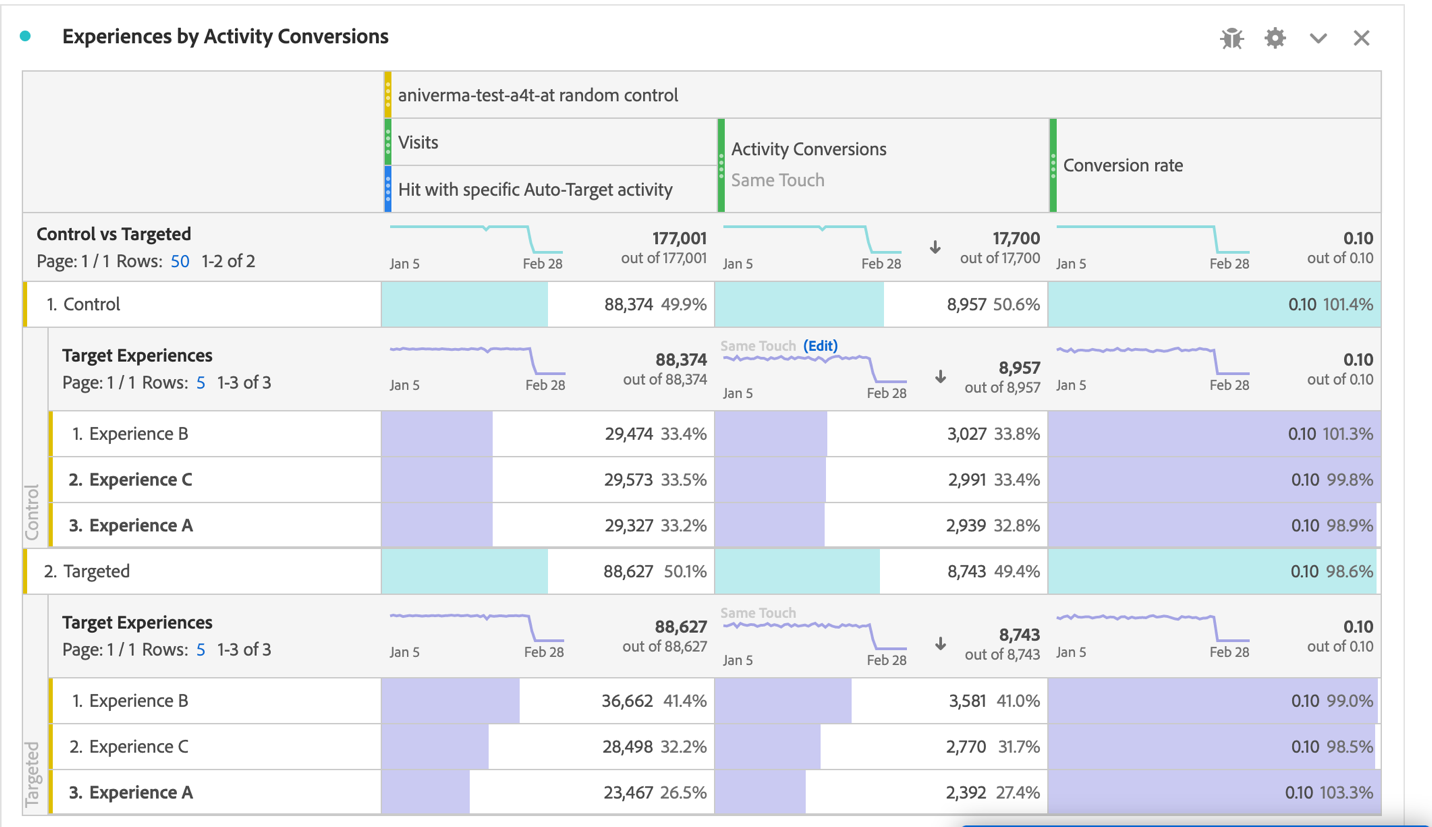
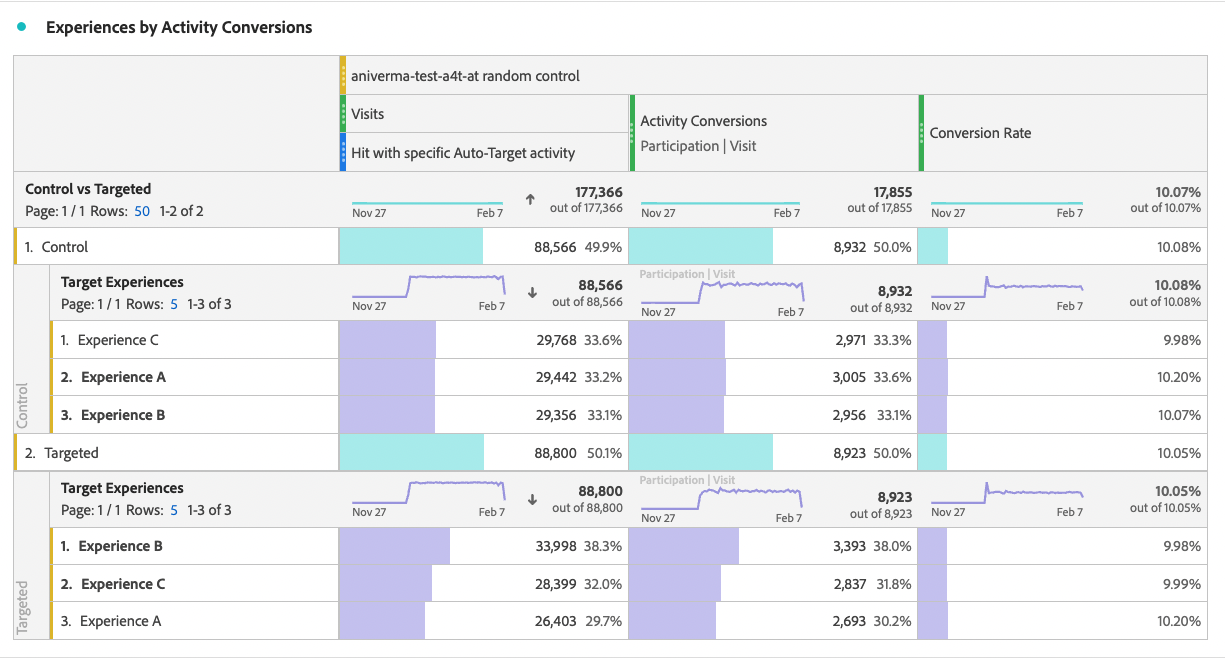
taper-1365

Changed region(s): [[0.0, 0.0303, 1.0, 1.0], [0.8376, 0.0303, 0.8996, 0.0607], [0.9306, 0.0303, 0.9616, 0.0607]]

diff --git a/help/integrations/set-up-a4t-reports-in-analysis-workspace-for-auto-allocate-activities.md b/help/integrations/set-up-a4t-reports-in-analysis-workspace-for-auto-allocate-activities.md
@@ -1,0 +1,85 @@
+---
+title: How to Set Up A4T Reports in Analysis Workspace for Auto-Allocate Activities
+description: Once you have your Analytics for Target (A4T) integration in place and you are running Auto-Allocate activities, how can you ensure you are interpreting results correctly? Follow these steps to configure A4T reports in Analysis Workspace to get expected results when running Auto-Allocate activities.
+role: User
+level: Intermediate
+topic: Personalization, Integrations
+feature: Analytics for Target (A4T), Auto-Target, Integrations
+doc-type: tutorial
+kt:
+exl-id: <WHAT GOES HERE?>
+---
+# Setting up A4T reports in Analysis Workspace for [!DNL Auto-Allocate] activities
+
+An [!DNL Auto-Allocate] activity identifies a winner among two or more experiences and automatically reallocates more traffic to the winner while the test continues to run and learn. The Analytics for Target (A4T) integration for [!DNL Auto-Allocate] allows you to see your reporting data in Adobe Analytics, and you can even optimize for custom events or metrics defined in Adobe Analytics. 
+
+While rich analysis capabilities are available in Adobe Analytics Analysis Workspace, a few modifications to the default **[!UICONTROL Analytics for Target]** panel are required to correctly interpret [!DNL Auto-Allocate] activities, due to the nuances in [optimization criteria](https://experienceleague.adobe.com/docs/target/using/integrate/a4t/a4t-at-aa.html?lang=en#supported). 
+
+This tutorial walks through the recommended modifications for analyzing [!DNL Auto-Allocate] activities in Workspace. The key concepts are: 
+
+* Visitors should always be used as the normalizing metric in [!DNL Auto-Allocate] activities.
+* When the metric is an Adobe Analytics Metric, the appropriate numerator for the conversion rate depends on the type of optimization criteria chosen during activity setup.
+  * The "maximize unique visitor conversion rate" optimization criterion has a conversion rate whose numerator is a count of the unique visitors with a positive value of the metric. 
+  * The "maximize metric value per visitor* has a conversion rate whose numerator is the regular metric value in Adobe Analytics. This is provided by default in the **[!UICONTROL Analytics for Target]** panel in Workspace.
+* When your optimization metric is a Target defined conversion metric, the default **[!UICONTROL Analytics for Target]** panel in Workspace handles configuring your panel. 
+* The Confidence numbers seen in Workspace do not reflect the [more conservative statistics used by Auto-Allocate](https://experienceleague.adobe.com/docs/target/using/activities/auto-allocate/automated-traffic-allocation.html?lang=en#section_98388996F0584E15BF3A99C57EEB7629), and so should be removed. 
+
+
+## Create the A4T for [!DNL Auto-Allocate] panel in Workspace
+
+To create an A4T for [!DNL Auto-Allocate] report start with the **[!UICONTROL Analytics for Target]** panel in Workspace, as shown below. Then make the following selections:
+
+1. **[!UICONTROL Control Experience]**: You may choose any experience
+2. **[!UICONTROL Normalizing Metric]**: Select Visitors - Auto-Allocate always normalizes conversion rates by unique visitors.
+3. **[!UICONTROL Success Metrics]**: Select the same metric that you used during activity creation - if this was a Target defined Conversion metric, select **Activity Conversion**. Otherwise, select the Adobe Analytics metric that you used.
+
+![AAFigure1.png](assets/AAFigure1.png)
+*Figure 1: Analytics for Target  panel setup for [!DNL Auto-Allocate] activities.*
+
+>[!NOTE]
+>
+> You may also arrive at a pre-built **[!UICONTROL Analytics for Target]** panel if you click the link from the report screen in Adobe Target.
+
+## Target Conversion Metrics or Analytics metrics with "Maximize Metric Value Per Visitor" optimization criteria
+
+The default A4T panel handles [!DNL Auto-Allocate] activities where the goal metric is either a Target Conversion, or an Analytics metric with optimization criterion "Maximize Metric Value Per Visitor". 
+
+One example of this panel is shown for the Revenue metric, where "Maximize Metric Value Per Visitor" was selected as the optimization criteria at activity creation time. As previously mentioned, !DNL Auto-Allocate] uses more conservative confidence calculations compared to the ones used by the **[!UICONTROL Analytics for Target]** panel. It is therefore recommended that you remove the confidence metric, as well as the related lower and upper lift metrics.  
+
+![Figure2.png](assets/AAFigure2.png)
+*Figure 2: The recommended report for [!DNL Auto-Allocate] activities with an Analytics metric Maximize Metric Value Per Visitor optimization criteria. For these types of metrics, as well as Target defined conversion metrics, the default  **[!UICONTROL Analytics for Target]** panel in workspace can be used.* 
+
+
+## Analytics metrics with "Maximize Unique Visitor Conversion Rate" optimization criteria
+
+When an Adobe Analytics metric is used with an optimization criterion of *Maximize Unique Visitor Conversion Rate*, the default **[!UICONTROL Analytics for Target]** panel in workspace must be modified. 
+
+The success metric is now a count of unique visitors for whom the conversion metric was positive. This can be achieved by creating a segment that filters to hits with a positive value of the metric. Create this segment as follows:
+
+1. Select the **Components** > **Create Segment** option in the Workspace toolbar.
+1. Drag the metric used at activity creation time from the left hand panel to the **Definition** box of the segment.
+1. Select values of the metric that are **greater than** a numeric value of 0. 
+1. From the **Include** dropdown, select **Visitors**
+1. Give your segment an appropriate name
+
+An example of the segment creation is shown in the figure below, where we select vistors for whom the Revenue is positive. 
+
+![Figure3.png](assets/AAFigure3.png)
+*Figure 3: Segment creation for Adobe Analytics metrics with optimization criteria equal to Maximize Unique Visitor Conversion Rate. In this example, the metric is Revenue, and the optimization goal is to maximize the number of visitors with positive revenue.*
+
+Once the appropriate segment has been created, the default  **[!UICONTROL Analytics for Target]** panel in workspace can be modified. 
+
+1. Add a second **Unique Visitors** metric alongside the existing visitors metric column
+2. Drag the just-created segment under the first column, to produce a panel that resembles Figure 4. Notice the difference - the number of unique visitors with positive revenue is a fraction of the total number of unique visitors assigned to each experience.
+![Figure4.png](assets/AAFigure4.png)
+*Figure 4: Filtering Unique Visitors by the newly created segment*
+3. A conversion rate can be [quickly calculated](https://experienceleague.adobe.com/docs/analytics-learn/tutorials/components/calculated-metrics/quick-calculated-metrics-in-analysis-workspace.html?lang=en) by higlighting both the first and second columns, right clicking, selecting **Create Metric from selection** > **Divide**. The default conversion rate should be removed, and replaced with this new calculated metric, as shown in the image below. You may have to edit the newly created calculated metric to display as a **Format** > **Percent** up to two decimal places as shown. 
+![Figure4.png](assets/AAFigure5.png)
+*Figure 4: The final Auto-Allocate panel showing the conversion rates for a binarized revenue conversion metric*
+
+
+
+## Conclusion
+The above steps have demonstrated how to correctly configure workspace to display Auto-Allocate reporting data. To summarize
+- When the metric is a Target defined conversion metric, or an Adobe Analytics Metric with optimization criterion *Maximize Metric Value Per Visitor*, the default workspace panel configured with visitors as a normalizing metric should be used.
+- When the metric is an Adobe Analytics metric with optimization criterion "Maximize Unique Visitor Conversion Rate", you must use a conversion rate that is defined as the fraction of visitors for whom the metric is positive. This is done by creating a corresponding segment, that filters the unique visitor metric. 

diff --git a/help/integrations/set-up-a4t-reports-in-analysis-workspace-for-auto-target-activities.md b/help/integrations/set-up-a4t-reports-in-analysis-workspace-for-auto-target-activities.md
@@ -118,7 +118,7 @@ The final panel will appear as follows.
 ![Figure6.png](assets/Figure6.png)
 *Figure 6: Reporting panel with the "Hit with specific Auto-Target Activity" segment applied to the [!UICONTROL Visits] metric. This ensures only visits where a user actually interacted with the Target activity in question are included in the report.*
 
-## Align the attribution between ML model training and goal metric generation
+## Ensure the goal metric and attribution are aligned with your optimization criterion
 
 The A4T integration allows [!DNL Auto-Target]’s ML model to be *trained* using the same conversion event data that Adobe Analytics uses to *generate performance reports*. However, there are certain assumptions which must be employed in interpreting this data when training the ML models, which differ from the default assumptions made during the reporting phase in Adobe Analytics.
 
@@ -126,10 +126,17 @@ Specifically, Adobe Target’s ML models use a visit-scoped attribution model. T
 
 Thus, the difference between the attribution used by Target’s models (during training) versus the default attribution used in querying data (during report generation) may lead to discrepancies. It may even appear that the ML models are performing poorly, when in fact the issue lies with attribution.
 
+
 >[!TIP]
 >
->If the ML models are optimizing for a metric that is attributed differently from that of the metrics you are viewing in a report, the models may not perform as expected! To avoid this, ensure the goal metrics on your report use the same attribution used by Target's ML models.
+>If the ML models are optimizing for a metric that is attributed differently from that of the metrics you are viewing in a report, the models may not perform as expected! To avoid this, ensure the goal metrics on your report use the same metric definition and attribution used by Target's ML models.
 
+The exact metric definition, and attribution settings depend on the [optimization criterion](https://experienceleague.adobe.com/docs/target/using/integrate/a4t/a4t-at-aa.html?lang=en#supported) you specified during activity creation. 
+
+
+### Target defined conversions, or Analytics metrics with *Maximize Metric Value Per Visit*
+
+When the metric is a Target conversion, or an Analytics metrics with **Maximize Metric Value Per Visit**, the goal metric definition allows for multiple conversion events to occur in the same visit. 
 To view goal metrics that have the same attribution methodology used by Adobe Target's ML models, follow these steps:
 
   1. Hover over the goal metric’s gear icon:
@@ -144,9 +151,34 @@ To view goal metrics that have the same attribution methodology used by Adobe Ta
  
 These steps ensure your report will attribute the goal metric to the display of the experience, if the goal metric event happened *any time* (“participation”) in the same visit that an experience was shown. 
 
+### Analytics Metrics with *Unique Visit Conversion Rates*
+
+**Define the visit with positive metric segment**
+
+In the scenario where you selected *Maximize the Unique Visit Conversion Rate* as the optimization criteroin, then the correct definition of the conversion rate is the fraction of visits in which the metric value is positive. This can be achieved by creating a segment filtering down to visits with a positive value of the metric, and then filtering the visits metric.
+
+
+1. As before, select the **[!UICONTROL Components > Create Segment]** option in the Workspace toolbar.
+2. Enter a **[!UICONTROL Title]** for your segment. In the example shown below, the segment is named [!DNL "Visits with an order"].
+3. Drag the base metric you used in your optimization goal into the segment . In the example shown below, we use the **orders** metric, so that the conversion rate measures the fraction of visits where an order is recorded. 
+4. At the top left of the segment definition container, select **[!UICONTROL Include]** **Visit**. 
+5. Use the **[!UICONTROL is greater than]** operator, and set the value to be 0 (i.e., this segment includes visits where the orders metric is positive)
+6. Click **[!UICONTROL Save]**.
+
+![Figure7.png](assets/Figure7.png)
+*Figure 7: The segment definition filtering to visits with a positive order. Depending on your activity's optimization metric, you will have to replace orders with an appropriate metric*
+
+**Apply this to the visits in activity filtered metric**
+
+This segment can now be used to filter to visits with a positive number of orders, and where there was a hit for the [!DNL Auto-Target]activity. The procedure of filtering a metric is similar to before, and after applying the new segment to the already-filtered visit metric, the report panel should look like Figure 8
+
+![Figure8.png](assets/Figure8.png)
+*Figure 8: The report panel with the correct unique-visit conversion metric - i.e. the number of visits where a hit from the activity was recorded, and where the conversion metric (orders in this example) was non-zero.*
+
+
 ## Final Step: Create a conversion rate that captures the magic above
 
-With the modifications to the Visit and goal metrics in preceding sections, the final modification you should make to your default A4T for [!DNL Auto-Target] reporting panel is to create conversion rates that are the correct ratio—that of a goal metric with the right attribution, to an appropriately filtered “Visits” metric. 
+With the modifications to the Visit and goal metrics in preceding sections, the final modification you should make to your default A4T for [!DNL Auto-Target] reporting panel is to create conversion rates that are the correct ratio—that of the corrected goal metric, to an appropriately filtered “Visits” metric. 
 
 Do this by creating a Calculated Metric using the following steps:
 
@@ -160,10 +192,14 @@ Do this by creating a Calculated Metric using the following steps:
 1. Drag the **[!UICONTROL Visits]** metric into the segment container.
 1. Click **[!UICONTROL Save]**.
 
+>[!TIP]
+>
+> You can also create this metric using the [quick calculated metric functionality](https://experienceleague.adobe.com/docs/analytics-learn/tutorials/components/calculated-metrics/quick-calculated-metrics-in-analysis-workspace.html?lang=en). 
+
 The complete calculated metric definition is shown here.
 
-![Figure7.png](assets/Figure7.png)
-*Figure 7: The visit- and attribution-corrected model conversion rate metric definition. (Note this metric is dependent on your goal metric and activity. In other words, this metric definition is not re-usable across activities.)*
+![Figure9.png](assets/Figure9.png)
+*Figure 9: The visit- and attribution-corrected model conversion rate metric definition. (Note this metric is dependent on your goal metric and activity. In other words, this metric definition is not re-usable across activities.)*
 
 >[!IMPORTANT]
 >
@@ -173,5 +209,5 @@ The complete calculated metric definition is shown here.
 
 Combining all of the steps above into a single panel, the figure below shows a complete view of the recommended report for [!DNL Auto-Target] A4T activities. This report is the same as that used by Target's machine learning models to optimize your goal metric, and it incorporates all the nuances and recommendations discussed in this tutorial. This report is also closest to the counting methodologies used in traditional Target-reporting driven [!DNL Auto-Target] activities. 
 
-![Figure8.png](assets/Figure8.png)
-*Figure 8: The final A4T [!DNL Auto-Target] report in Adobe Analytics Workspace, which combines all the adjustments to metric definitions described in the previous sections of this document.*
+![Figure10.png](assets/Figure10.png)
+*Figure 10: The final A4T [!DNL Auto-Target] report in Adobe Analytics Workspace, which combines all the adjustments to metric definitions described in the previous sections of this document.*
